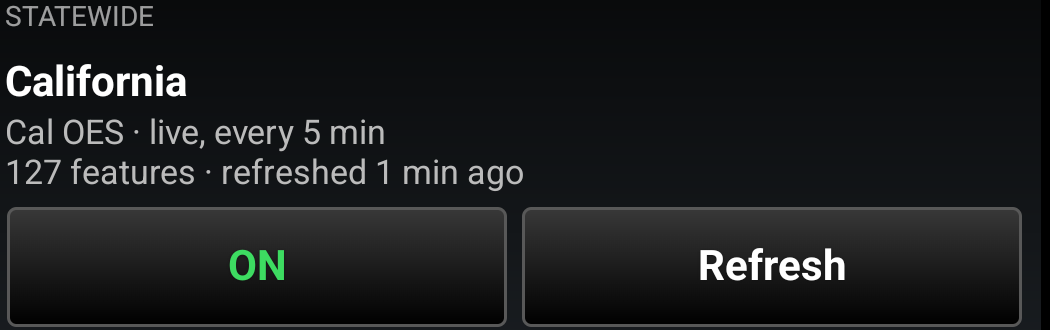
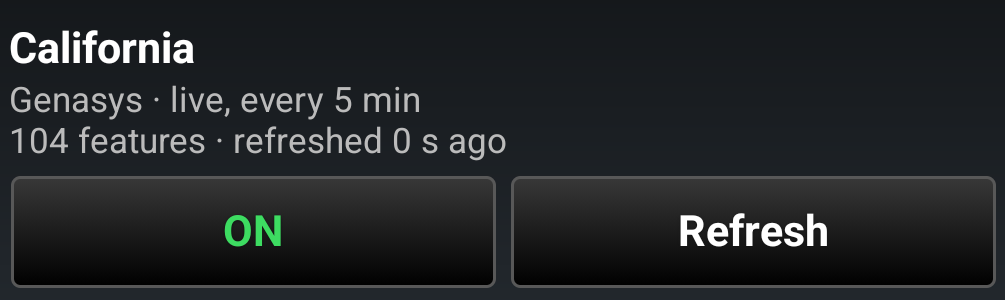
Evac Zone 0.7: Genasys Protect zones; docs and the state-row picture say so

Changed region(s): [[0.0, 0.0, 1.0, 1.0], [0.6478, 0.72, 0.8328, 0.87], [0.2159, 0.72, 0.2776, 0.87]]

diff --git a/README.md b/README.md
@@ -14,9 +14,9 @@ All releases: https://github.com/takwerx/evac-zone/releases
 _________________________________________________________________
 PURPOSE AND CAPABILITIES
 
-Evacuation zones on the ATAK map, from the services that publish them: state
-emergency management agencies, CAL FIRE, and the counties and cities that run
-their own zone maps. Browsed by state, then by county, the way Cam Depot
+Evacuation zones on the ATAK map, from the services that publish them:
+Genasys Protect (licensed to TAKWERX), state emergency management agencies,
+CAL FIRE, and the counties and cities that run their own zone maps. Browsed by state, then by county, the way Cam Depot
 browses cameras, and drawn in one color language whatever the source calls a
 status: Order red, Warning yellow, Advisory blue, Shelter in Place purple,
 Lifted green, Normal faint.
@@ -55,6 +55,15 @@ A step-by-step user guide lives at docs/USER_GUIDE.md in the repository
 _________________________________________________________________
 STATUS
 
+Version 0.7: Genasys Protect zones, under a data license between Genasys and
+TAKWERX. Genasys is the first source for California and Oregon, with the state
+and county feeds adding what Genasys does not have, and a new "Other states"
+entry carries Genasys zones in every other state, so a zone shows the day an
+agency issues it. The zones reach devices through the takwerx server, which
+holds the Genasys login; the plugin itself carries none. The same change
+reached 0.6 through the catalog on 2026-11-19; 0.7 carries it in the built-in
+copy used when the catalog cannot be read.
+
 Version 0.6: North Carolina's coastal evacuation zones (21 counties, zones A to E),
 and a drawing fix: zones made of several separate parts now draw every part, and
 static maps keep every piece of a zone letter (Hillsborough County, Florida draws
@@ -69,9 +78,10 @@ and push each one as an update. Nothing else changed.
 Version 0.4. Verified on ATAK-CIV 5.8.0.3 (Samsung Galaxy XCover Pro), release
 build with proguard. Compiles against the 5.6, 5.7 and 5.8 SDKs.
 
-Feeds at release: California (Cal OES with CAL FIRE and the county feeds folded in), Oregon (OEM with Deschutes), British
-Columbia, and hurricane zones for two
-Florida counties. More states arrive through the catalog, by request.
+Feeds at release: California (Genasys with Cal OES, CAL FIRE and the county
+feeds folded in), Oregon (Genasys with OEM and Deschutes), every other US state
+Genasys covers, British Columbia, hurricane zones for two Florida counties, and
+North Carolina's coastal zones. More states arrive through the catalog, by request.
 
 Prepared for tak.gov third-party submission.
 
@@ -94,6 +104,9 @@ PORTS REQUIRED
 
   - mapdepot.takwerx.org, for the catalog (one small JSON file, read at
     plugin start). If it is unreachable the copy built into the APK is used.
+  - cams.takwerx.org, for Genasys Protect zones (path /evaczone/genasys/).
+    The takwerx server holds the Genasys login and answers like a public
+    ArcGIS FeatureServer; the device sends no credentials.
   - The public ArcGIS FeatureServers the catalog lists, only for sources the
     operator turns on: services.arcgis.com and services1 through services9
     .arcgis.com (state and county ArcGIS Online organizations), and
@@ -160,10 +173,14 @@ DEVELOPER NOTES
   has moved a tenth of the radius, coalesced off the GL-thread map-moved
   callback (never touch a view or a map item there).
 
-  Genasys Protect is not a source. Its public WFS answers anonymously but its
-  terms forbid automated use; live status for Genasys counties comes through
-  the state aggregations (Cal OES, CAL FIRE, Oregon OEM), which carry every
-  Genasys county.
+  Genasys Protect is a source under a data license with TAKWERX (2026-11).
+  Its ArcGIS service needs a login, and this source tree is public, so the
+  login stays on the takwerx server: a relay at
+  https://cams.takwerx.org/evaczone/genasys/FeatureServer/0 adds the token,
+  allows only a state filter, drops test and Training zones, and caches one
+  answer a minute for every device. The plugin reads it like any other
+  catalog entry. Genasys's public WFS is still not used; its terms forbid
+  automated access.
 
 LICENSE
 

diff --git a/docs/USER_GUIDE.md b/docs/USER_GUIDE.md
@@ -23,10 +23,11 @@ go to it.
 - The plugin needs internet access to fetch zones. Once a state has been
   fetched it keeps drawing without a connection and tells you how old it is.
 - Nothing is sent from your phone: no location, no callsign.
-- Built and tested in California. Other states are there where public data
-  was found: Oregon, British Columbia, hurricane zones for two Florida
-  counties, and North Carolina's coastal zones for 21 counties (lettered A to
-  E, no live status; the county calls zones by letter).
+- Built and tested in California. Live zones for every US state Genasys
+  Protect covers are under **US** ("Other states"). Beyond that, other places
+  are there where public data was found: Oregon, British Columbia, hurricane
+  zones for two Florida counties, and North Carolina's coastal zones for 21
+  counties (lettered A to E, no live status; the county calls zones by letter).
   If your state publishes evacuation zones and they are not here, point us at
   the data: https://github.com/takwerx/evac-zone/issues
 
@@ -63,9 +64,10 @@ Just the states. Pick one and the pane shows that state's feed and counties.
 One row per state. **ON** loads it and draws it; the row then shows how many
 zones it holds and how long ago it refreshed. **Refresh** fetches now.
 
-California is Cal OES's orders and warnings with CAL FIRE's reason, population
-and lifted zones and the county feeds folded in, one zone drawn once. Oregon is
-OEM's levels: 1 Be Ready, 2 Be Set, 3 Go Now. British Columbia is its orders
+California is Genasys Protect's zones as the agencies issue them, with Cal
+OES, CAL FIRE and the county feeds folded in, one zone drawn once. Oregon is
+Genasys with OEM's levels: 1 Be Ready, 2 Be Set, 3 Go Now. **US** ("Other
+states") is Genasys zones in every other state. British Columbia is its orders
 and alerts.
 
 ## 5. Counties
